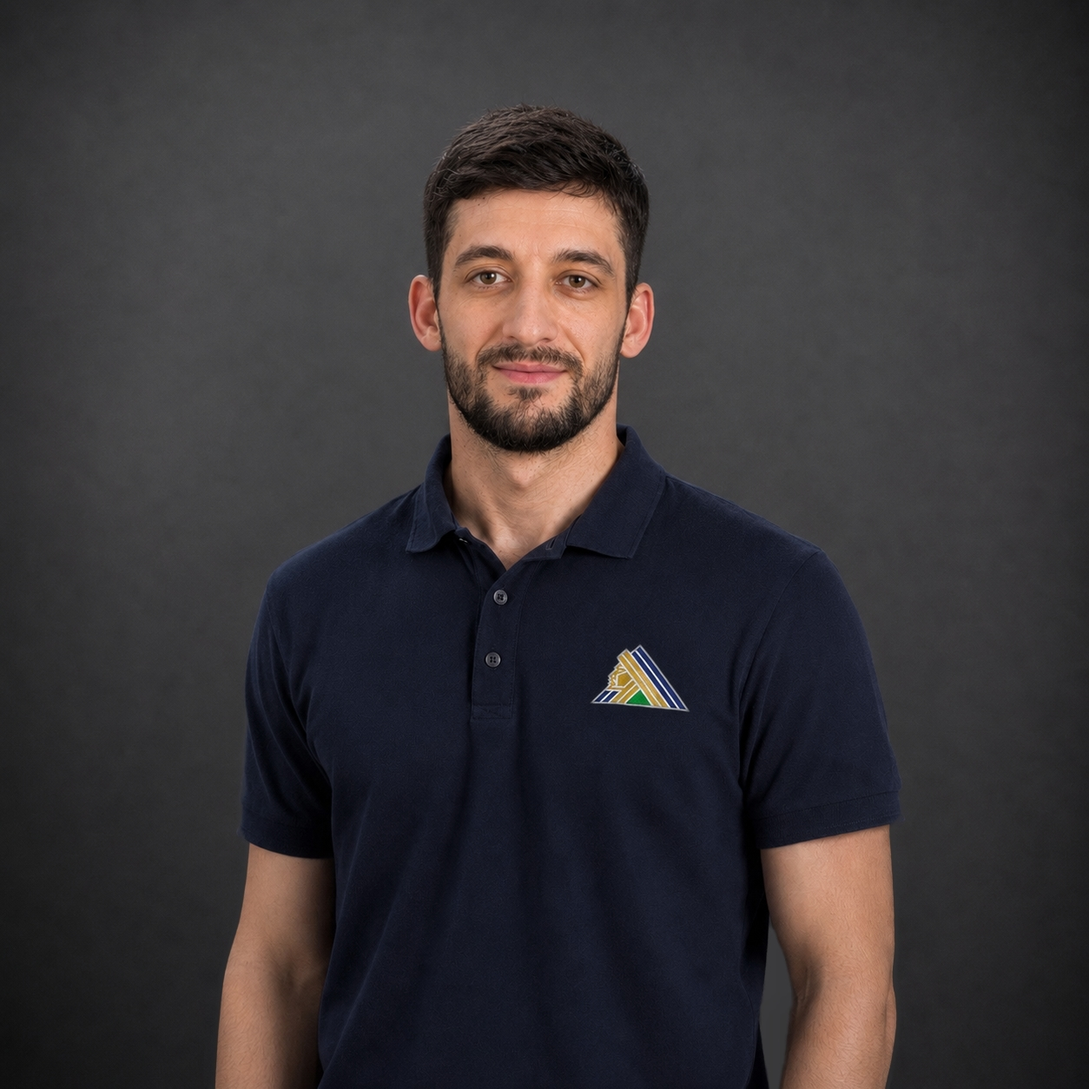
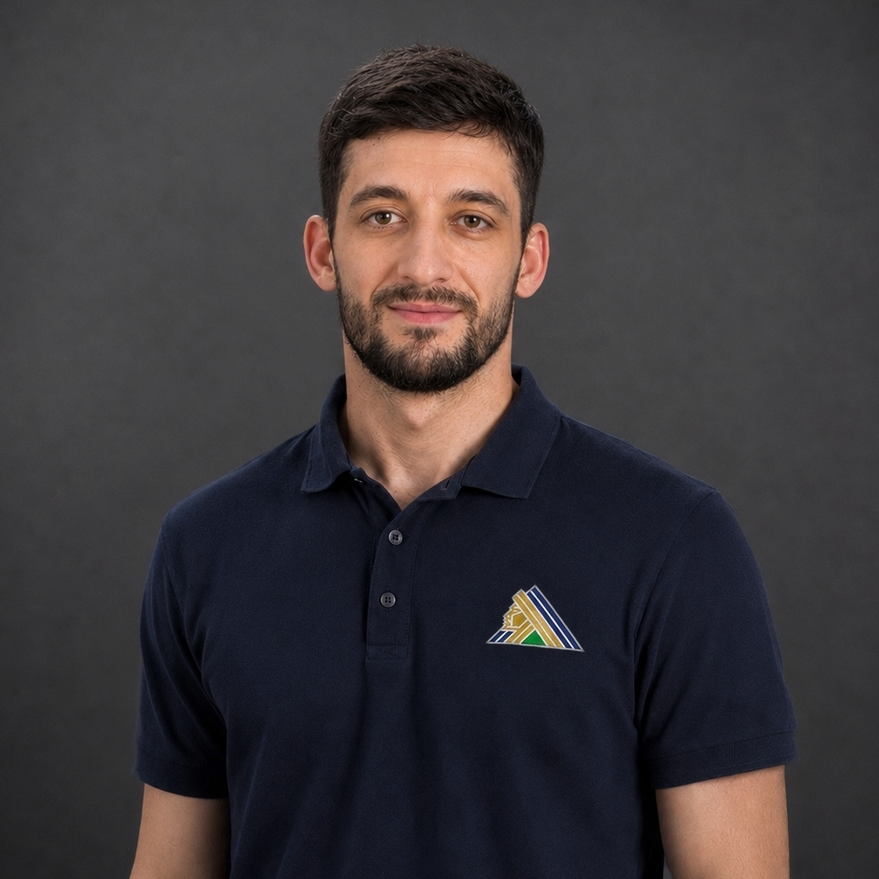
Add files via upload

diff --git a/privacy.html b/privacy.html
@@ -3,4 +3,4 @@
   <meta http-equiv="Pragma" content="no-cache">
   <meta http-equiv="Expires" content="0"><meta name="viewport" content="width=device-width,initial-scale=1">
   <script>try{document.documentElement.dataset.theme=localStorage.getItem('breakout-theme')||'dark'}catch(e){document.documentElement.dataset.theme='dark'}</script>
-<meta name="theme-color" content="#070907"><link rel="icon" href="assets/breakout-icon.png?v=38"><link rel="stylesheet" href="styles-v35.css?v=46"><title>Политика конфиденциальности — BreakOut</title></head><body class="legal-page" data-page="privacy"><header class="topbar"><div class="nav-shell"><a class="brand" href="index.html"><img src="assets/breakout-icon.png?v=38" alt=""><span>BreakOut</span></a><div class="nav-actions"><button class="utility-toggle language-toggle" type="button" data-lang-toggle aria-label="Сменить язык" title="Сменить язык"><span data-lang-current>RU</span></button><button class="utility-toggle theme-toggle" type="button" data-theme-toggle aria-label="Сменить тему" title="Сменить тему"><span data-theme-icon aria-hidden="true">☾</span></button><a class="signin-btn legal-back-home" href="index.html" data-i18n="backHome">← На главную</a></div></div></header><main><section class="legal-hero"><div class="content-shell"><div class="kicker">BreakOut</div><h1 data-i18n="privacyPageTitle">Политика конфиденциальности</h1><p data-i18n="privacyPageIntro">Как BreakOut обращается с данными аккаунта, доступом и оплатой.</p><div class="legal-meta" data-i18n="version">Версия: 19 августа 2026</div></div></section><div class="legal-content"><div class="notice" data-i18n="privacyNotice">Аккаунты BreakOut используют Supabase Auth. Для входа и лицензирования обрабатываются e-mail, данные сессии, срок доступа и сведения об активированных Mac. Платежи пока не подключены.</div><section><h2 data-i18n="privacy1Title">1. Информация на текущем сайте</h2><p data-i18n="privacy1Copy">BreakOut использует e-mail, защищённые данные авторизации, статус доступа и сведения об активированных устройствах. Видео матчей и файлы проектов не передаются в систему аккаунтов для проверки доступа.</p></section><section><h2 data-i18n="privacy2Title">2. Аккаунты и доступ</h2><p data-i18n="privacy2Copy">Аккаунт используется для входа на сайте и в приложении, проверки срока доступа, восстановления пароля и управления активированными Mac.</p></section><section><h2 data-i18n="privacy3Title">3. Оплата</h2><p data-i18n="privacy3Copy">Данные банковской карты обрабатывает платёжный провайдер. BreakOut получает только сведения, необходимые для подтверждения платежа, тарифа и срока доступа.</p></section><section><h2 data-i18n="privacy4Title">4. Видео и проекты</h2><p data-i18n="privacy4Copy">Видео матчей и проекты остаются частью локального рабочего процесса на Mac и не передаются на сервер только ради проверки лицензии.</p></section><section><h2 data-i18n="privacy5Title">5. Контакты</h2><p><span data-i18n="privacy5Copy">Вопросы о конфиденциальности можно отправить на</span> <a data-support-email data-email-text href="#">support</a>.</p></section></div></main><footer class="footer"><div class="content-shell footer-inner"><div class="footer-brand"><img src="assets/breakout-icon.png?v=38" alt=""><span>BreakOut</span><small>© 2026</small></div><div class="footer-links"><a href="privacy.html" data-i18n="navPrivacy">Конфиденциальность</a><a href="terms.html" data-i18n="termsShort">Условия</a><a href="support.html" data-i18n="navSupport">Поддержка</a></div></div></footer><script src="config-v26.js?v=27"></script><script src="script-v35.js?v=43"></script></body></html>
+<meta name="theme-color" content="#070907"><link rel="icon" href="assets/breakout-icon.png?v=38"><link rel="stylesheet" href="styles-v35.css?v=47"><title>Политика конфиденциальности — BreakOut</title></head><body class="legal-page" data-page="privacy"><header class="topbar"><div class="nav-shell"><a class="brand" href="index.html"><img src="assets/breakout-icon.png?v=38" alt=""><span>BreakOut</span></a><div class="nav-actions"><button class="utility-toggle language-toggle" type="button" data-lang-toggle aria-label="Сменить язык" title="Сменить язык"><span data-lang-current>RU</span></button><button class="utility-toggle theme-toggle" type="button" data-theme-toggle aria-label="Сменить тему" title="Сменить тему"><span data-theme-icon aria-hidden="true">☾</span></button><a class="signin-btn legal-back-home" href="index.html" data-i18n="backHome">← На главную</a></div></div></header><main><section class="legal-hero"><div class="content-shell"><div class="kicker">BreakOut</div><h1 data-i18n="privacyPageTitle">Политика конфиденциальности</h1><p data-i18n="privacyPageIntro">Как BreakOut обращается с данными аккаунта, доступом и оплатой.</p><div class="legal-meta" data-i18n="version">Версия: 19 августа 2026</div></div></section><div class="legal-content"><div class="notice" data-i18n="privacyNotice">Аккаунты BreakOut используют Supabase Auth. Для входа и лицензирования обрабатываются e-mail, данные сессии, срок доступа и сведения об активированных Mac. Платежи пока не подключены.</div><section><h2 data-i18n="privacy1Title">1. Информация на текущем сайте</h2><p data-i18n="privacy1Copy">BreakOut использует e-mail, защищённые данные авторизации, статус доступа и сведения об активированных устройствах. Видео матчей и файлы проектов не передаются в систему аккаунтов для проверки доступа.</p></section><section><h2 data-i18n="privacy2Title">2. Аккаунты и доступ</h2><p data-i18n="privacy2Copy">Аккаунт используется для входа на сайте и в приложении, проверки срока доступа, восстановления пароля и управления активированными Mac.</p></section><section><h2 data-i18n="privacy3Title">3. Оплата</h2><p data-i18n="privacy3Copy">Данные банковской карты обрабатывает платёжный провайдер. BreakOut получает только сведения, необходимые для подтверждения платежа, тарифа и срока доступа.</p></section><section><h2 data-i18n="privacy4Title">4. Видео и проекты</h2><p data-i18n="privacy4Copy">Видео матчей и проекты остаются частью локального рабочего процесса на Mac и не передаются на сервер только ради проверки лицензии.</p></section><section><h2 data-i18n="privacy5Title">5. Контакты</h2><p><span data-i18n="privacy5Copy">Вопросы о конфиденциальности можно отправить на</span> <a data-support-email data-email-text href="#">support</a>.</p></section></div></main><footer class="footer"><div class="content-shell footer-inner"><div class="footer-brand"><img src="assets/breakout-icon.png?v=38" alt=""><span>BreakOut</span><small>© 2026</small></div><div class="footer-links"><a href="privacy.html" data-i18n="navPrivacy">Конфиденциальность</a><a href="terms.html" data-i18n="termsShort">Условия</a><a href="support.html" data-i18n="navSupport">Поддержка</a></div></div></footer><script src="config-v26.js?v=27"></script><script src="script-v35.js?v=43"></script></body></html>

diff --git a/terms.html b/terms.html
@@ -3,4 +3,4 @@
   <meta http-equiv="Pragma" content="no-cache">
   <meta http-equiv="Expires" content="0"><meta name="viewport" content="width=device-width,initial-scale=1">
   <script>try{document.documentElement.dataset.theme=localStorage.getItem('breakout-theme')||'dark'}catch(e){document.documentElement.dataset.theme='dark'}</script>
-<meta name="theme-color" content="#070907"><link rel="icon" href="assets/breakout-icon.png?v=38"><link rel="stylesheet" href="styles-v35.css?v=46"><title>Условия использования — BreakOut</title></head><body class="legal-page" data-page="terms"><header class="topbar"><div class="nav-shell"><a class="brand" href="index.html"><img src="assets/breakout-icon.png?v=38" alt=""><span>BreakOut</span></a><div class="nav-actions"><button class="utility-toggle language-toggle" type="button" data-lang-toggle aria-label="Сменить язык" title="Сменить язык"><span data-lang-current>RU</span></button><button class="utility-toggle theme-toggle" type="button" data-theme-toggle aria-label="Сменить тему" title="Сменить тему"><span data-theme-icon aria-hidden="true">☾</span></button><a class="signin-btn legal-back-home" href="index.html" data-i18n="backHome">← На главную</a></div></div></header><main><section class="legal-hero"><div class="content-shell"><div class="kicker">BreakOut</div><h1 data-i18n="termsPageTitle">Условия использования</h1><p data-i18n="termsPageIntro">Основные условия использования сайта, аккаунта и приложения BreakOut.</p><div class="legal-meta" data-i18n="version">Версия: 19 августа 2026</div></div></section><div class="legal-content"><div class="notice" data-i18n="termsNotice">Платежи пока не подключены. Цены на главной странице являются планируемыми ценами запуска.</div><section><h2 data-i18n="terms1Title">1. Сайт</h2><p data-i18n="terms1Copy">Сайт представляет BreakOut, предоставляет доступ к аккаунту и после коммерческого запуска будет использоваться для покупки и продления доступа.</p></section><section><h2 data-i18n="terms2Title">2. Доступ к программе</h2><p data-i18n="terms2Copy">После начала продаж право использования BreakOut будет связано с аккаунтом пользователя и действовать в течение оплаченного или предоставленного периода.</p></section><section><h2 data-i18n="terms3Title">3. Интеллектуальная собственность</h2><p data-i18n="terms3Copy">BreakOut, фирменное оформление, программное обеспечение и оригинальные материалы защищаются применимыми правилами интеллектуальной собственности. Получение копии приложения не даёт права распространять его от своего имени.</p></section><section><h2 data-i18n="terms4Title">4. Подписка и оплата</h2><p data-i18n="terms4Copy">Срок доступа, стоимость, продление, отмена, возвраты, налоги и условия оплаты будут показаны до подтверждения покупки.</p></section><section><h2 data-i18n="terms5Title">5. Контакты</h2><p><span data-i18n="terms5Copy">Вопросы об условиях можно отправить на</span> <a data-support-email data-email-text href="#">support</a>.</p></section></div></main><footer class="footer"><div class="content-shell footer-inner"><div class="footer-brand"><img src="assets/breakout-icon.png?v=38" alt=""><span>BreakOut</span><small>© 2026</small></div><div class="footer-links"><a href="privacy.html" data-i18n="navPrivacy">Конфиденциальность</a><a href="terms.html" data-i18n="termsShort">Условия</a><a href="support.html" data-i18n="navSupport">Поддержка</a></div></div></footer><script src="config-v26.js?v=27"></script><script src="script-v35.js?v=43"></script></body></html>
+<meta name="theme-color" content="#070907"><link rel="icon" href="assets/breakout-icon.png?v=38"><link rel="stylesheet" href="styles-v35.css?v=47"><title>Условия использования — BreakOut</title></head><body class="legal-page" data-page="terms"><header class="topbar"><div class="nav-shell"><a class="brand" href="index.html"><img src="assets/breakout-icon.png?v=38" alt=""><span>BreakOut</span></a><div class="nav-actions"><button class="utility-toggle language-toggle" type="button" data-lang-toggle aria-label="Сменить язык" title="Сменить язык"><span data-lang-current>RU</span></button><button class="utility-toggle theme-toggle" type="button" data-theme-toggle aria-label="Сменить тему" title="Сменить тему"><span data-theme-icon aria-hidden="true">☾</span></button><a class="signin-btn legal-back-home" href="index.html" data-i18n="backHome">← На главную</a></div></div></header><main><section class="legal-hero"><div class="content-shell"><div class="kicker">BreakOut</div><h1 data-i18n="termsPageTitle">Условия использования</h1><p data-i18n="termsPageIntro">Основные условия использования сайта, аккаунта и приложения BreakOut.</p><div class="legal-meta" data-i18n="version">Версия: 19 августа 2026</div></div></section><div class="legal-content"><div class="notice" data-i18n="termsNotice">Платежи пока не подключены. Цены на главной странице являются планируемыми ценами запуска.</div><section><h2 data-i18n="terms1Title">1. Сайт</h2><p data-i18n="terms1Copy">Сайт представляет BreakOut, предоставляет доступ к аккаунту и после коммерческого запуска будет использоваться для покупки и продления доступа.</p></section><section><h2 data-i18n="terms2Title">2. Доступ к программе</h2><p data-i18n="terms2Copy">После начала продаж право использования BreakOut будет связано с аккаунтом пользователя и действовать в течение оплаченного или предоставленного периода.</p></section><section><h2 data-i18n="terms3Title">3. Интеллектуальная собственность</h2><p data-i18n="terms3Copy">BreakOut, фирменное оформление, программное обеспечение и оригинальные материалы защищаются применимыми правилами интеллектуальной собственности. Получение копии приложения не даёт права распространять его от своего имени.</p></section><section><h2 data-i18n="terms4Title">4. Подписка и оплата</h2><p data-i18n="terms4Copy">Срок доступа, стоимость, продление, отмена, возвраты, налоги и условия оплаты будут показаны до подтверждения покупки.</p></section><section><h2 data-i18n="terms5Title">5. Контакты</h2><p><span data-i18n="terms5Copy">Вопросы об условиях можно отправить на</span> <a data-support-email data-email-text href="#">support</a>.</p></section></div></main><footer class="footer"><div class="content-shell footer-inner"><div class="footer-brand"><img src="assets/breakout-icon.png?v=38" alt=""><span>BreakOut</span><small>© 2026</small></div><div class="footer-links"><a href="privacy.html" data-i18n="navPrivacy">Конфиденциальность</a><a href="terms.html" data-i18n="termsShort">Условия</a><a href="support.html" data-i18n="navSupport">Поддержка</a></div></div></footer><script src="config-v26.js?v=27"></script><script src="script-v35.js?v=43"></script></body></html>

diff --git a/support.html b/support.html
@@ -3,7 +3,7 @@
   <meta http-equiv="Pragma" content="no-cache">
   <meta http-equiv="Expires" content="0"><meta name="viewport" content="width=device-width,initial-scale=1">
   <script>try{document.documentElement.dataset.theme=localStorage.getItem('breakout-theme')||'dark'}catch(e){document.documentElement.dataset.theme='dark'}</script>
-<meta name="theme-color" content="#070907"><link rel="icon" href="assets/breakout-icon.png?v=38"><link rel="stylesheet" href="styles-v35.css?v=46"><title>Поддержка — BreakOut</title></head><body class="legal-page" data-page="support">
+<meta name="theme-color" content="#070907"><link rel="icon" href="assets/breakout-icon.png?v=38"><link rel="stylesheet" href="styles-v35.css?v=47"><title>Поддержка — BreakOut</title></head><body class="legal-page" data-page="support">
 <header class="topbar"><div class="nav-shell"><a class="brand" href="index.html"><img src="assets/breakout-icon.png?v=38" alt=""><span>BreakOut</span></a><div class="nav-actions"><button class="utility-toggle language-toggle" type="button" data-lang-toggle aria-label="Сменить язык" title="Сменить язык"><span data-lang-current>RU</span></button><button class="utility-toggle theme-toggle" type="button" data-theme-toggle aria-label="Сменить тему" title="Сменить тему"><span data-theme-icon aria-hidden="true">☾</span></button><a class="signin-btn legal-back-home" href="index.html" data-i18n="backHome">← На главную</a></div></div></header>
 <main><section class="legal-hero"><div class="content-shell"><div class="kicker">BreakOut</div><h1 data-i18n="supportTitle">Поддержка</h1><p data-i18n="supportIntro">Помощь по BreakOut для macOS: установка, доступ, работа приложения и вопросы по продукту.</p><div class="support-cards"><div class="support-card"><h3 data-i18n="supportEmailTitle">Поддержка по e-mail</h3><p data-i18n="supportEmailCopy">Для технических вопросов, отзывов о программе и вопросов по доступу.</p><a class="button primary" data-support-email href="#" data-i18n="supportEmailButton">Написать</a></div><div class="support-card"><h3 data-i18n="supportAccessTitle">Загрузка и доступ</h3><p data-i18n="supportAccessCopy">Аккаунт уже используется для тестового входа и проверки доступа. Публичная загрузка приложения будет открыта к коммерческому запуску.</p><a class="button secondary" href="index.html#pricing" data-i18n="supportAccessButton">Посмотреть тарифы</a></div></div></div></section><div class="legal-content"><section><h2 data-i18n="supportBeforeTitle">Если возникла техническая проблема</h2><p data-i18n="supportBeforeCopy">Укажите версию BreakOut, версию macOS, что вы делали перед ошибкой и точный текст сообщения. Если проблема видна на экране, приложите скриншот.</p></section><section><h2 data-i18n="supportPaymentsTitle">Оплата и подписка</h2><p data-i18n="supportPaymentsCopy">После запуска продаж в аккаунте BreakOut можно будет видеть статус доступа и информацию о подписке.</p></section></div></main>
 <footer class="footer"><div class="content-shell footer-inner"><div class="footer-brand"><img src="assets/breakout-icon.png?v=38" alt=""><span>BreakOut</span><small>© 2026</small></div><div class="footer-links"><a href="privacy.html" data-i18n="navPrivacy">Конфиденциальность</a><a href="terms.html" data-i18n="termsShort">Условия</a><a href="support.html" data-i18n="navSupport">Поддержка</a></div></div></footer><script src="config-v26.js?v=27"></script><script src="script-v35.js?v=43"></script></body></html>

diff --git a/styles-v35.css b/styles-v35.css
@@ -2860,3 +2860,68 @@ section[id],#breakout-demo{scroll-margin-top:92px}
   #features .capability-card h3{font-size:13.5px!important}
   #features .capability-card p{font-size:9px!important;line-height:1.34!important}
 }
+
+
+/* v43 — mobile capability cards: preserve visual proportions and remove dead space */
+@media(max-width:760px){
+  #features .capability-card{
+    min-height:0!important;
+    display:flex!important;
+    flex-direction:column!important;
+    justify-content:flex-start!important;
+  }
+  #features .capability-visual,
+  #features .capability-visual.interval-ui.interval-ui-v29,
+  #features .capability-visual.scoreboard-ui,
+  #features .capability-visual.scoreboard-ui.scoreboard-reference-ui{
+    width:100%!important;
+    height:auto!important;
+    min-height:0!important;
+    max-height:none!important;
+    aspect-ratio:4 / 3!important;
+    margin:0 0 8px!important;
+    flex:0 0 auto!important;
+  }
+  #features .capability-card h3{
+    margin:0 0 5px!important;
+  }
+  #features .capability-card p{
+    margin:0!important;
+  }
+  #features .drawing-ui{
+    padding:3px!important;
+  }
+  #features .rink-reference{
+    width:100%!important;
+    height:100%!important;
+    max-width:none!important;
+    max-height:none!important;
+    object-fit:contain!important;
+  }
+  #features .scoreboard-reference-image{
+    width:94%!important;
+    height:92%!important;
+    max-width:none!important;
+    max-height:none!important;
+    object-fit:contain!important;
+    margin:auto!important;
+  }
+}
+@media(max-width:390px){
+  #features .capability-card{
+    min-height:0!important;
+  }
+  #features .capability-visual,
+  #features .capability-visual.interval-ui.interval-ui-v29,
+  #features .capability-visual.scoreboard-ui,
+  #features .capability-visual.scoreboard-ui.scoreboard-reference-ui{
+    height:auto!important;
+    min-height:0!important;
+    max-height:none!important;
+    aspect-ratio:4 / 3!important;
+    margin-bottom:7px!important;
+  }
+  #features .capability-card h3{
+    margin:0 0 4px!important;
+  }
+}

diff --git a/account.html b/account.html
@@ -11,7 +11,7 @@
   <meta name="robots" content="noindex,nofollow">
   <link rel="icon" href="assets/breakout-icon.png?v=38">
   <link rel="apple-touch-icon" href="assets/breakout-icon.png?v=38">
-  <link rel="stylesheet" href="styles-v35.css?v=46">
+  <link rel="stylesheet" href="styles-v35.css?v=47">
   <title>Аккаунт — BreakOut</title>
 </head>
 <body class="account-page" data-page="account" data-build="20.0">

diff --git a/index.html b/index.html
@@ -22,7 +22,7 @@
   <link rel="icon" href="assets/breakout-icon.png?v=38">
   <link rel="apple-touch-icon" href="assets/breakout-icon.png?v=38">
   <link rel="manifest" href="site.webmanifest">
-  <link rel="stylesheet" href="styles-v35.css?v=46">
+  <link rel="stylesheet" href="styles-v35.css?v=47">
   <title>BreakOut — спортивный видеоанализ для Mac</title>
 </head>
 <body data-page="home">
